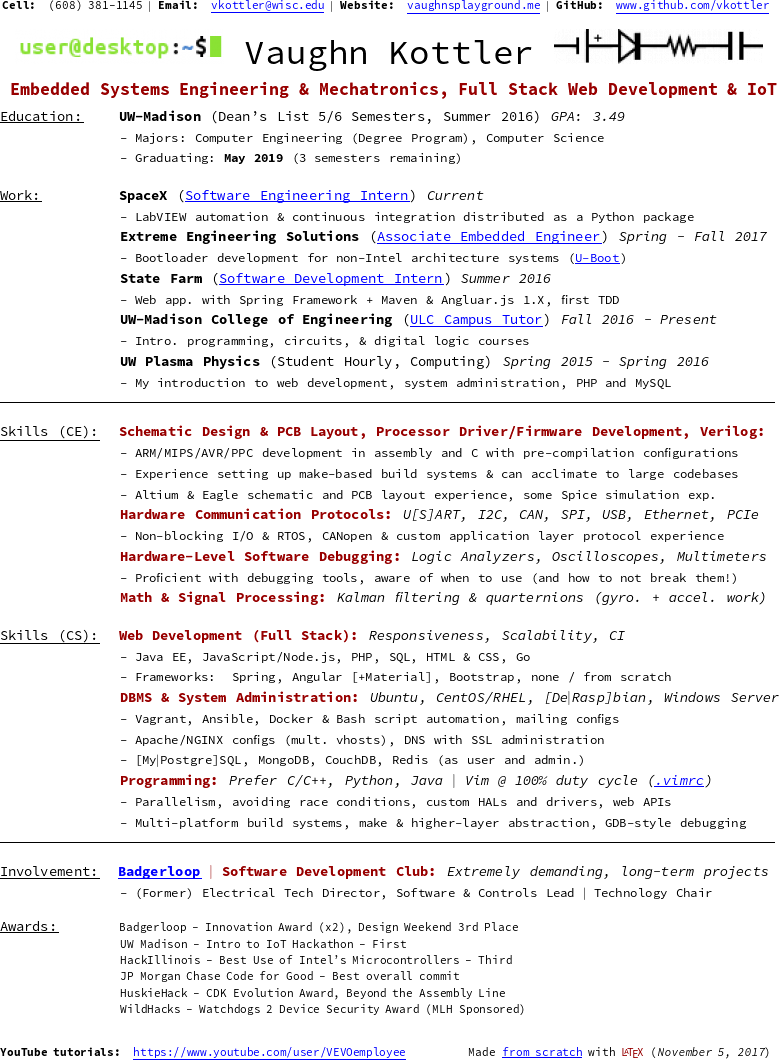
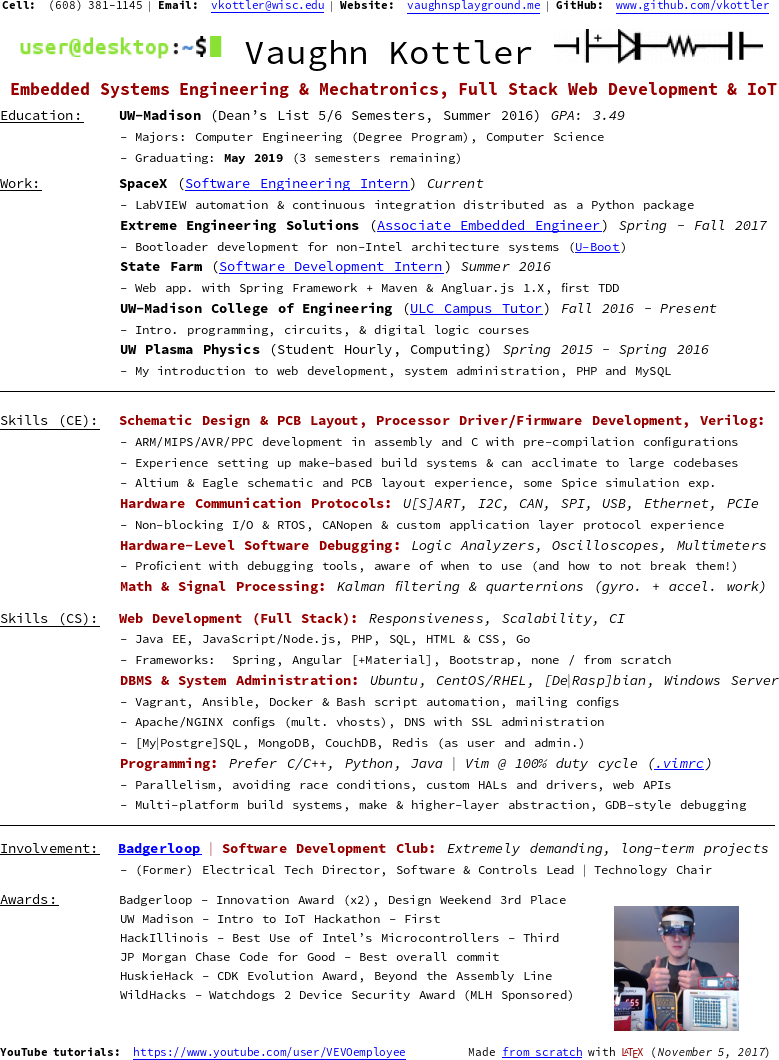
wow, it is tough to absolutely position an image.

diff --git a/main.tex b/main.tex
@@ -27,7 +27,9 @@
 \addtolength{\textwidth}{3.0in}
 \addtolength{\textheight}{2.25in}
 
-\usepackage{tikzpagenodes}
+\usepackage[absolute,overlay]{textpos}
+\setlength{\TPHorizModule}{1in} % horizontal unit
+\setlength{\TPVertModule}{1in} % vertical unit
 
 % Metadata
 \title{resume}
@@ -100,11 +102,6 @@
 }
 %%%%%%%%%%%%%%%%%%%%%%%%%%%%%%%%%%%%%%%%%%%%%%%%%%%%%%%%%%%%%%%%%%%%%%%%%%%%%%%
 %%%%%%%%%%%%%%%%%%%%%%%%%%%%%%%%%%%%%%%%%%%%%%%%%%%%%%%%%%%%%%%%%%%%%%%%%%%%%%%
-%\begin{tikzpicture}[remember picture,overlay]
-%\node[anchor=south east,yshift=7.5mm,xshift=-1.5cm]{
-%	\includegraphics[natwidth=150px,natheight=150px,width=3cm]{im/gear_cropped.jpg}
-%};
-%\end{tikzpicture}
 
 
 %%%%%%%%%%%%%%%%%%%%%%%%%%%%%%%%%%%%%%%%%%%%%%%%%%%%%%%%%%%%%%%%%%%%%%%%%%%%%%%
@@ -120,9 +117,12 @@
 \subfile{sections/skills_cs}\noindent
 %\subfile{sections/leadership}\noindent
 \HR
-
+%
+\begin{textblock}{1.25}(6.5,9.3)
+\includegraphics[width=1.25in,natwidth=100,natheight=100]{im/gear_cropped.jpg}
+\end{textblock}
 \subfile{sections/involvement}\noindent
-\subfile{sections/awards}\noindent
+\subfile{sections/awards}
 \end{document}
 %%%%%%%%%%%%%%%%%%%%%%%%%%%%%%%%%%%%%%%%%%%%%%%%%%%%%%%%%%%%%%%%%%%%%%%%%%%%%%%
 %%%%%%%%%%%%%%%%%%%%%%%%%%%%%%%%%%%%%%%%%%%%%%%%%%%%%%%%%%%%%%%%%%%%%%%%%%%%%%%

diff --git a/sections/involvement.tex b/sections/involvement.tex
@@ -3,6 +3,7 @@
 {\HREF{https://badgerloop.com}{Badgerloop} $\vert$ Software Development Club}
 {Extremely demanding, long-term projects}
 {\begin{adjustwidth}{1.2in}{0in}\setstretch{1.25}
-	\SECTCONT{(Former) Electrical Tech Director, Software \&
+	\SECTCONTNOBRK{(Former) Electrical Tech Director, Software \&
 		Controls Lead $\vert$ Technology Chair}
+	\vspace{0.15in}
 \end{adjustwidth}}

diff --git a/sections/awards.tex b/sections/awards.tex
@@ -1,5 +1,5 @@
 \documentclass[../main.tex]{subfiles}%
-\underline{Awards:}\hspace{4.4em}\footnotesize%
+\underline{Awards:}\hspace{4.4em}\small%
 Badgerloop - Innovation Award (x2), Design Weekend 3rd Place
 \begin{adjustwidth}{1.2in}{0in}\setstretch{1.25}
 UW Madison - Intro to IoT Hackathon - First\break

diff --git a/sections/education.tex b/sections/education.tex
@@ -8,7 +8,8 @@
 	\SECTCONT{Majors:\ Computer Engineering
 		(Degree Program), Computer Science}
 	%
-	\SECTCONT{Graduating:\ \textbf{May 2019}
+	\SECTCONTNOBRK{Graduating:\ \textbf{May 2019}
 		(3 semesters remaining)}
 	%
+	\vspace{0.1in}
 \end{adjustwidth}}

diff --git a/sections/skills_ce.tex b/sections/skills_ce.tex
@@ -25,6 +25,6 @@ Development, Verilog}{}
 	%
 	\SECTHEAD{Math \& Signal Processing}
 	{Kalman filtering \& quarternions (gyro.\ + accel.\ work)}
-	\break
 	%
+	\vspace{0.15in}
 \end{adjustwidth}}
